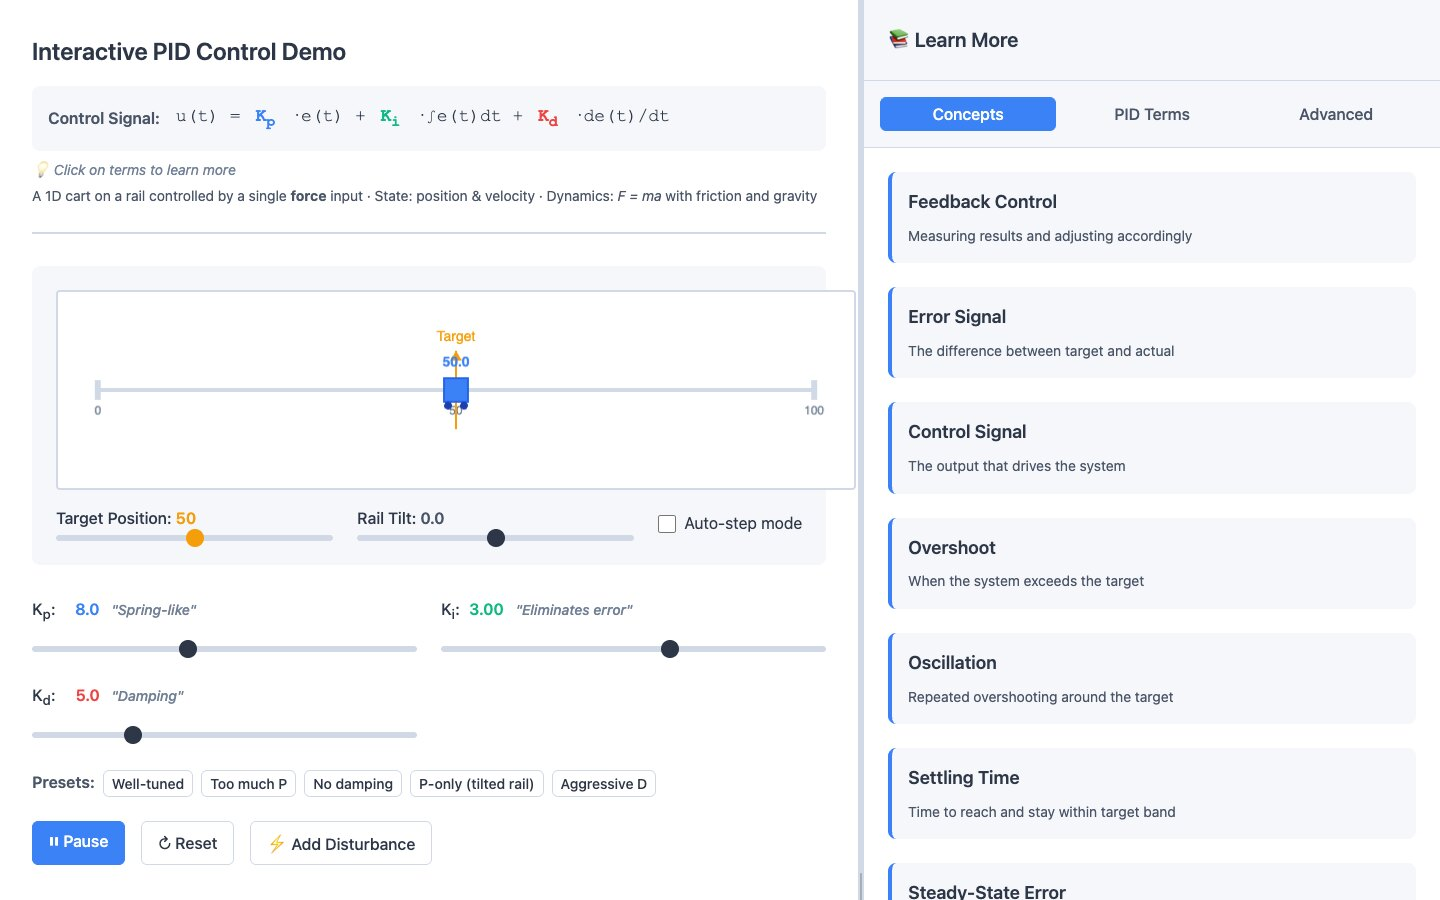
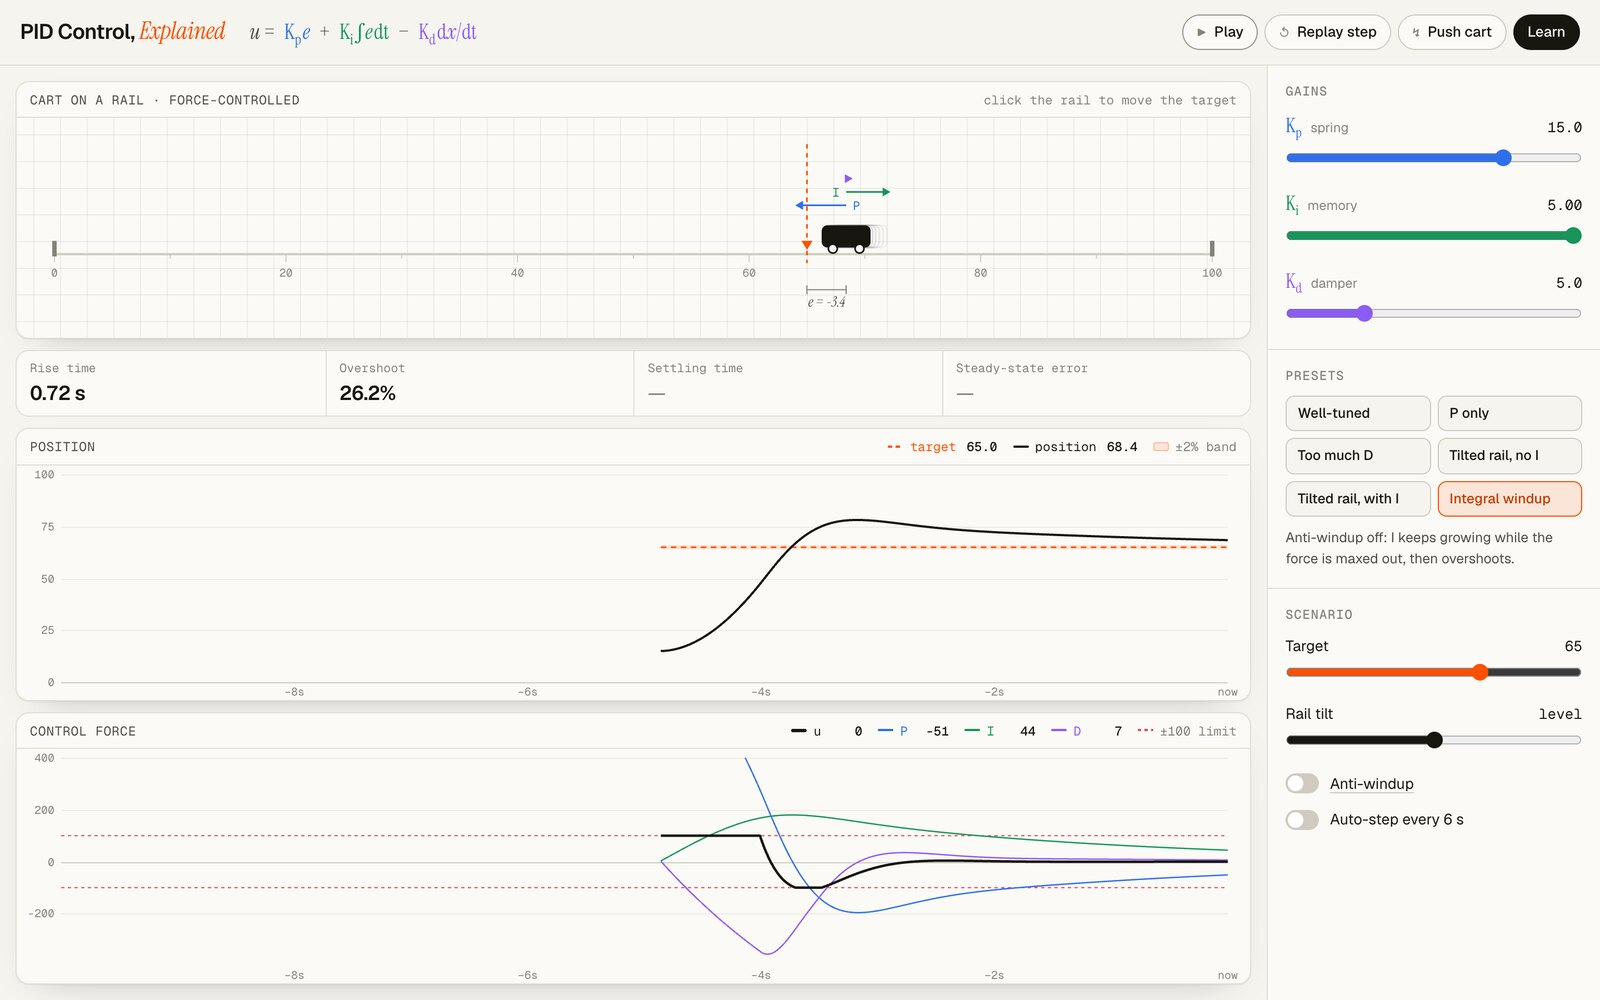
feat: pass the site theme to live demos and refresh the PID project page

diff --git a/src/content/projects/pid-control-explained.md b/src/content/projects/pid-control-explained.md
@@ -14,16 +14,16 @@ links:
   code: https://github.com/ferrolho/pid-control-explained
 ---
 
-An educational web app for building intuition about PID control through interactive visualisation, rather than through equations alone.
+An interactive explanation of PID control, built to give intuition rather than equations alone. You tune the gains on a simulated cart and see what each term is doing — as force arrows on the cart, in live plots of position and control force, and in step-response metrics.
 
 ## The system
 
-A 1D cart slides along a bounded rail. The controller applies a single scalar force — the only control input — and the cart obeys Newton's second law with viscous friction and optional gravity (a tilted rail). The goal is to drive the cart to a target position.
+A cart slides along a rail, pushed by a single force limited to ±100. It obeys Newton's second law with viscous friction, and tilting the rail adds a constant force along it. The controller runs at a fixed 100 Hz, independent of the screen's refresh rate.
 
 ## What you can do
 
-- **Tune the gains** — adjust *K*<sub>p</sub>, *K*<sub>i</sub>, and *K*<sub>d</sub> and watch position, error, and each term's contribution update live.
-- **Try preset scenarios** — well-tuned, too much P, no damping, P-only on a tilted rail (steady-state error), and aggressive D.
-- **Poke it** — add disturbances, click the canvas to move the target, or let auto-step alternate setpoints.
-- **Read the metrics** — rise time, settling time, overshoot, and steady-state error in real time.
-- **Learn the concepts** — clickable equation terms and a side panel covering integral windup, derivative kick, and tuning methods.
+- **Tune the gains** and watch the P, I, and D terms, and the net force, change live.
+- **Compare presets that differ in one thing**: P only versus well-tuned; a tilted rail with and without I; integral windup with anti-windup off and on.
+- **Poke it**: push the cart, click the rail to move the target, or let auto-step alternate setpoints.
+- **Read the metrics**: rise time, overshoot, settling time, and steady-state error, measured the standard way.
+- **Learn the concepts**: every term and metric opens an explanation, from the basics to windup, derivative kick, and tuning methods.
